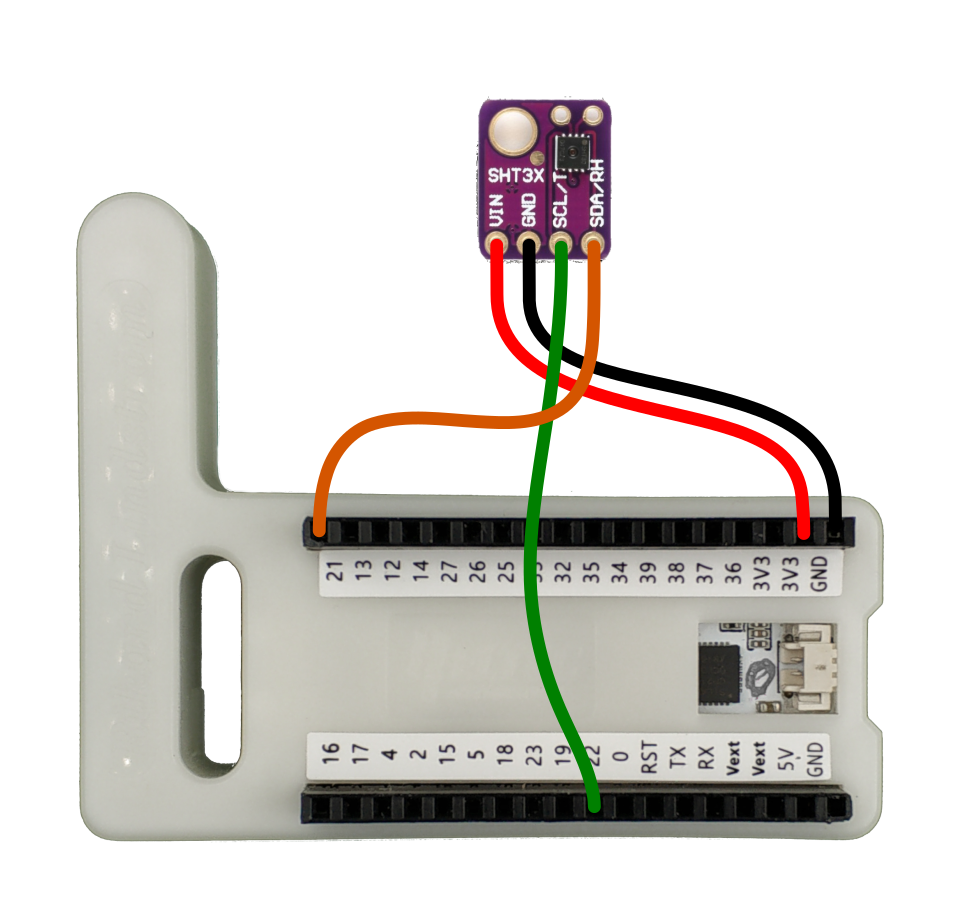
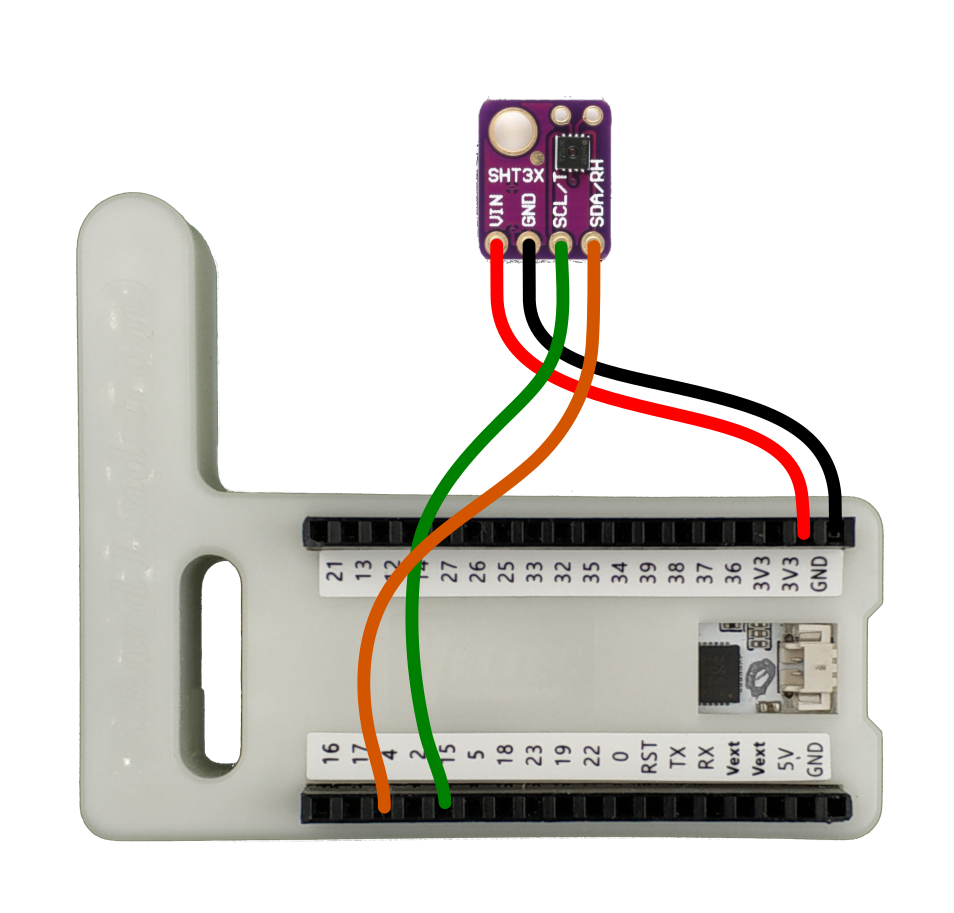
Fix pinout of the temperature exercise

Changed region(s): [[0.304, 0.3987, 0.6384, 0.8894], [0.5776, 0.3067, 0.608, 0.368]]

diff --git a/P05b LoRaWAN OTAA Temperatura/src/main.cpp b/P05b LoRaWAN OTAA Temperatura/src/main.cpp
@@ -15,8 +15,8 @@
     Sensor de temperatura     Placa Heltec
     VIN                       3.3
     GND                       GND
-    SCL                       PIN 22
-    SDA                       PIN 21
+    SCL                       PIN 15
+    SDA                       PIN 4
 
     # PAYLOAD FORMATER para TTN #
 
